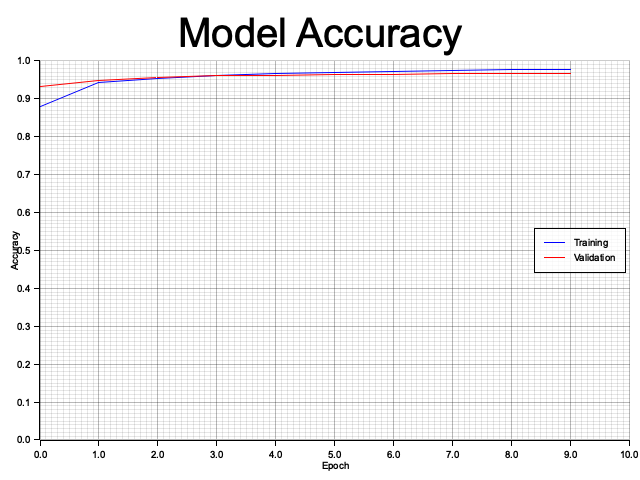
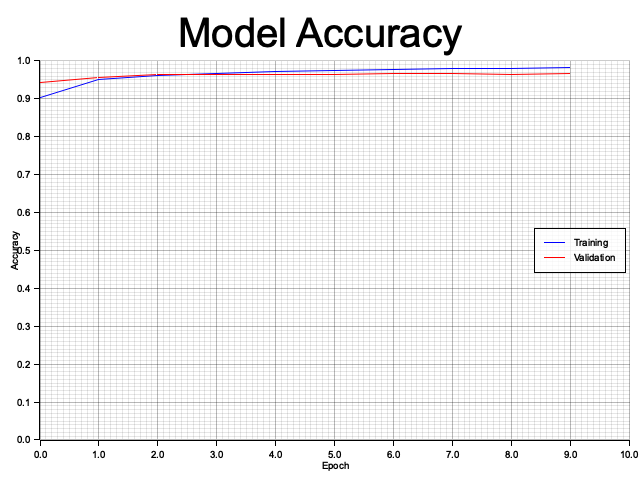
update documentation

Changed region(s): [[0.0625, 0.125, 0.9062, 0.2188]]

diff --git a/README.md b/README.md
@@ -59,38 +59,69 @@ A user-friendly neural network library implemented in Rust, designed for simplic
 use nabla_ml::nab_model::NabModel;
 use nabla_ml::nab_layers::NabLayer;
 
-// Create model architecture
-let input = NabModel::input(vec![784]);  // For MNIST: 28x28 = 784 input features
+// Create a simple model
+let input = NabModel::input(vec![784]);
 let dense1 = NabLayer::dense(784, 32, Some("relu"), Some("dense1"));
 let x = input.apply(dense1);
+
 let dense2 = NabLayer::dense(32, 32, Some("relu"), Some("dense2"));
 let x = x.apply(dense2);
+
 let output_layer = NabLayer::dense(32, 10, Some("softmax"), Some("output"));
 let output = x.apply(output_layer);
 
-// Create and compile model
 let mut model = NabModel::new_functional(vec![input], vec![output]);
+
+model.summary();
+
 model.compile(
-    "sgd",
-    0.1,  // Adjusted learning rate
-    "categorical_crossentropy",
+    "sgd",                      
+    0.1,                        
+    "categorical_crossentropy", 
     vec!["accuracy".to_string()]
 );
 
-// Train the model
+
+// Step 5: Train model
+println!("Training model...");
 let history = model.fit(
-    &training_data, 
-    &training_labels, 
-    64,  // Batch size
-    10,   // Number of epochs
-    Some((&validation_data, &validation_labels)) // Optional validation data
+    &x_train,
+    &y_train,
+    32,             // Increase batch size from 32 to 64
+    10,             // Increase epochs from 2 to 10
+    Some((&x_test, &y_test))
 );
 
-model.summary();
+model.save_compressed("mnist_model.ez").unwrap();
+
+let mut model_loaded = NabModel::load_compressed("mnist_model.ez").unwrap();
+
+// Step 6: Evaluate final model
+println!("Evaluating model...");
+let eval_metrics = model_loaded.evaluate(&x_test, &y_test, 32);
+
+// Print final results
+println!("Final test accuracy: {:.2}%", eval_metrics["accuracy"] * 100.0);
+
+// Step 7: Verify model achieved reasonable accuracy (>85%)
+assert!(eval_metrics["accuracy"] > 0.85, 
+    "Model accuracy ({:.2}%) below expected threshold", 
+    eval_metrics["accuracy"] * 100.0
+);
+
+// Verify training history contains expected metrics
+assert!(history.contains_key("loss"));
+assert!(history.contains_key("accuracy"));
+assert!(history.contains_key("val_loss"));
+assert!(history.contains_key("val_accuracy"));
+
+// After training the model
+plot_training_history(&history)?;
 ```
 ![MNIST - 42](./docs/42.png)
 ![MNIST - Loss](./docs/mnist_loss.png)
 ![MNIST - Accuracy](./docs/mnist_accuracy.png)
+![MNIST - Training](./docs/mnist_training.png)
 
 
 ### Usage
